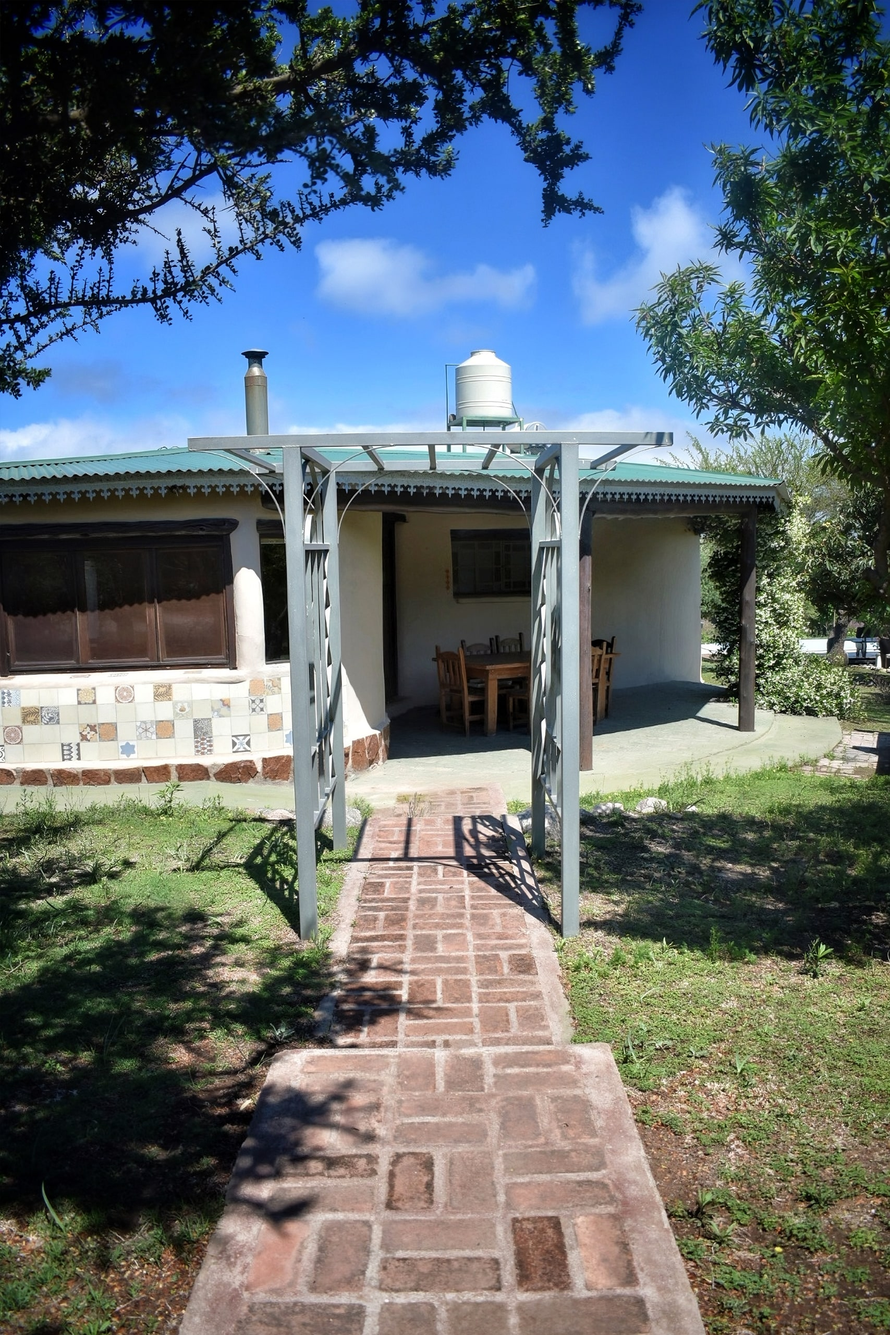
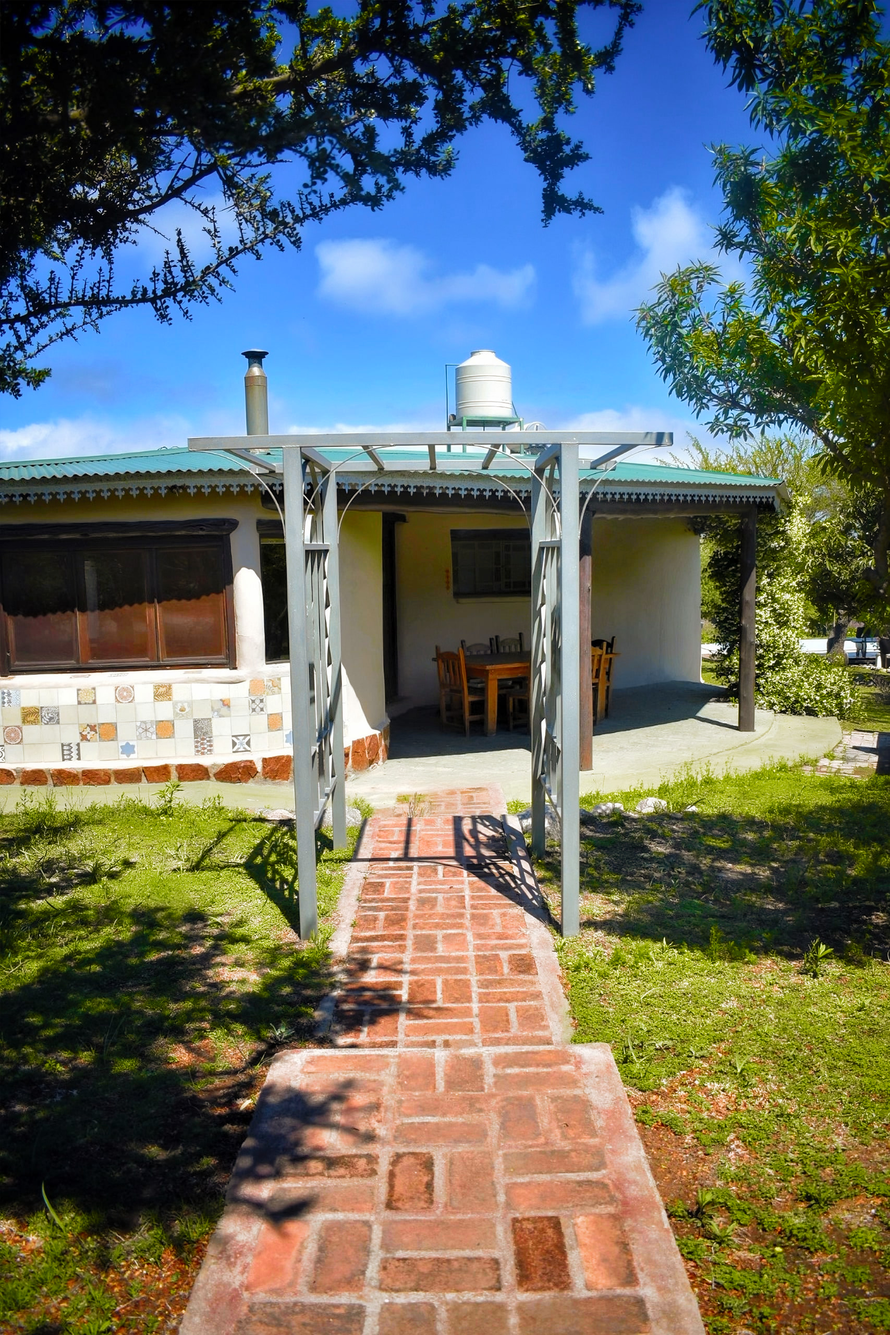
Warm grade for the Galería, its and Ubicación's heroes, the home story's Sumaq photos and the rest of Misky's carousel

diff --git a/CLAUDE.md b/CLAUDE.md
@@ -242,7 +242,7 @@ From the developer's `Frame.svg`: Sumaq's body in a terracotta gradient, the dom
 - **Third delivery (Nov 21, 2026): 56 exterior camera originals** (Nikon, ~6000×4000, natural edit, one overcast day: very consistent), in `fotos-originales/exteriores/Misky Wayra exterior nuevas/`. **`fotos-originales/exteriores/seleccion.json`** maps each `src/assets` file to its original. Used: the three heroes, the home story (12), the two "La casa" carousels (6 + 6: Sumaq front/dome entrance/roses/yellow flowers/window/pool; Misky gallery/tiles/barbecue/jasmine/trees/side path). Watch out: **a blue pool hose is coiled on the deck in most pool shots** (3509, 3454, 3435 in the shade at the right): ask the photographer to remove it in Lightroom if a pool photo becomes prominent. Also 3529 (the entrance sign) shows the mother's phone number.
 - **Cleanup (Nov 21, 2026):** `fotos-originales/` keeps **only the originals of photos the site uses** (104: `alta/` 40 interiors, `drive/` 21 = the 19 sunny garden photos + Sumaq_bano_02 and Sumaq_dormitorio_13, `exteriores/` 43); 167 unused were deleted (486 MB), plus the old phone photos (`home/`, `cabanas/`) and the Drive zips. Each site photo was traced to its original (exteriores by `seleccion.json`, the rest by fingerprint, all matches < 8). The complete deliveries remain in the family's Drive. `equivalencias.json` and `seleccion.json` stay as the map.
 - **Cleanup 2 (Nov 25, 2026):** `fotos-originales/` = only the originals of photos the site uses (120 files, 930 MB → ~860 MB after videos): `alta/` 60 (Redimensionadas interiors), `celular/` 7 (family phone photos: IMG_0451 home hero, IMG_0388 Sumaq hero, IMG_0377, IMG_6441, IMG_6431, IMG_6438, IMG_0360), `drive/` 21, `exteriores/` 32 (camera). Deleted: the full re-downloaded deliveries (`todas/`, ~400 photos + videos), replaced camera shots (old heroes 3435/3479/3425, old story photos), `cambios/` boards and the root zips. Every site photo was traced to its original by fingerprint (crops tried at several offsets) before deleting; `seleccion.json` had stale hero entries (it still said DSC_3435/3479 for the home/Sumaq heroes), fixed. Everything deleted is still in the family's Drive.
-- **Warm grade (Nov 25, 2026):** the overcast camera shots (and a few flat Redimensionadas) were graded toward the home hero's sunny warmth, in Lab: greens rotated toward the hero's yellow-green (~106°), vibrance that skips greys, highlights (white overcast sky) and blues (pool, blue-cast floors), +6 b warmth in the midtones only, midtones slightly lighter (gamma 0.84–0.95, more for dark shots), each photo's vibrance searched so its midtone chroma reaches ~37 (cap 1.6). Crops (`-4x5`, `hero-vertical`, `misky-parrilla-2x3`) use the exact parameters of their full photo so they match. Graded: Misky hero, the home story's camera shots + Jardin_06/11, both La casa carousels' camera shots, misky_galeria_02 and misky_parrilla_01. Not graded: sunny/edited ones (phone photos, Pileta_02/04, Jardin_01/03/09/12, Sumac_frente_01/02, misky_frente_01, galeria_04, parrilla_02) and misky_galeria_03 (its floor's blue cast turned electric). The white overcast sky stays white (no sky replacement: real content). The Galería mosaic and the Galería/Ubicación heroes are untouched. Ungraded versions are in git history; script: scratchpad `calidez.mjs` (not kept: re-derive from this note).
+- **Warm grade (Nov 25, 2026):** the overcast camera shots (and a few flat Redimensionadas) were graded toward the home hero's sunny warmth, in Lab: greens rotated toward the hero's yellow-green (~106°), vibrance that skips greys, highlights (white overcast sky) and blues (pool, blue-cast floors), +6 b warmth in the midtones only, midtones slightly lighter (gamma 0.84–0.95, more for dark shots), each photo's vibrance searched so its midtone chroma reaches ~37 (cap 1.6). Crops (`-4x5`, `hero-vertical`, `misky-parrilla-2x3`) use the exact parameters of their full photo so they match. Graded: Misky hero, the home story's camera shots + Jardin_06/11, both La casa carousels' camera shots, misky_galeria_02 and misky_parrilla_01. The white overcast sky stays white (no sky replacement: real content). Second pass the same day: the 14 Galería camera shots, the Galería and Ubicación heroes (+ vertical crops), the home story's Sumaq photos (Sumac_frente_01, Pileta_04, Jardin_09, Pileta_02) and the Misky carousel's other edits (misky_frente_01, galeria_04, parrilla_02; galeria_03 with `DESAZUL`: blue casts below L 75 cut to 35% chroma, warmth 4, so its floor turns neutral grey). Still ungraded: the Galería's sunny first-delivery and phone photos, Sumaq's hero, the interiors. Already-edited photos take it well: vibrance adapts to each photo's chroma (a saturated one only gets the green/warmth shift). Ungraded versions are in git history; script: scratchpad `calidez.mjs` (not kept: re-derive from this note).
 - Rules: start from originals (never WhatsApp copies); masters in `src/assets` ≤ 2560px (JPEG q88 via sharp; bigger files make `astro dev` slow); Astro generates AVIF/WebP. Remove distractions (hose, car, neighbors' roofs) where possible.
 
 ---
